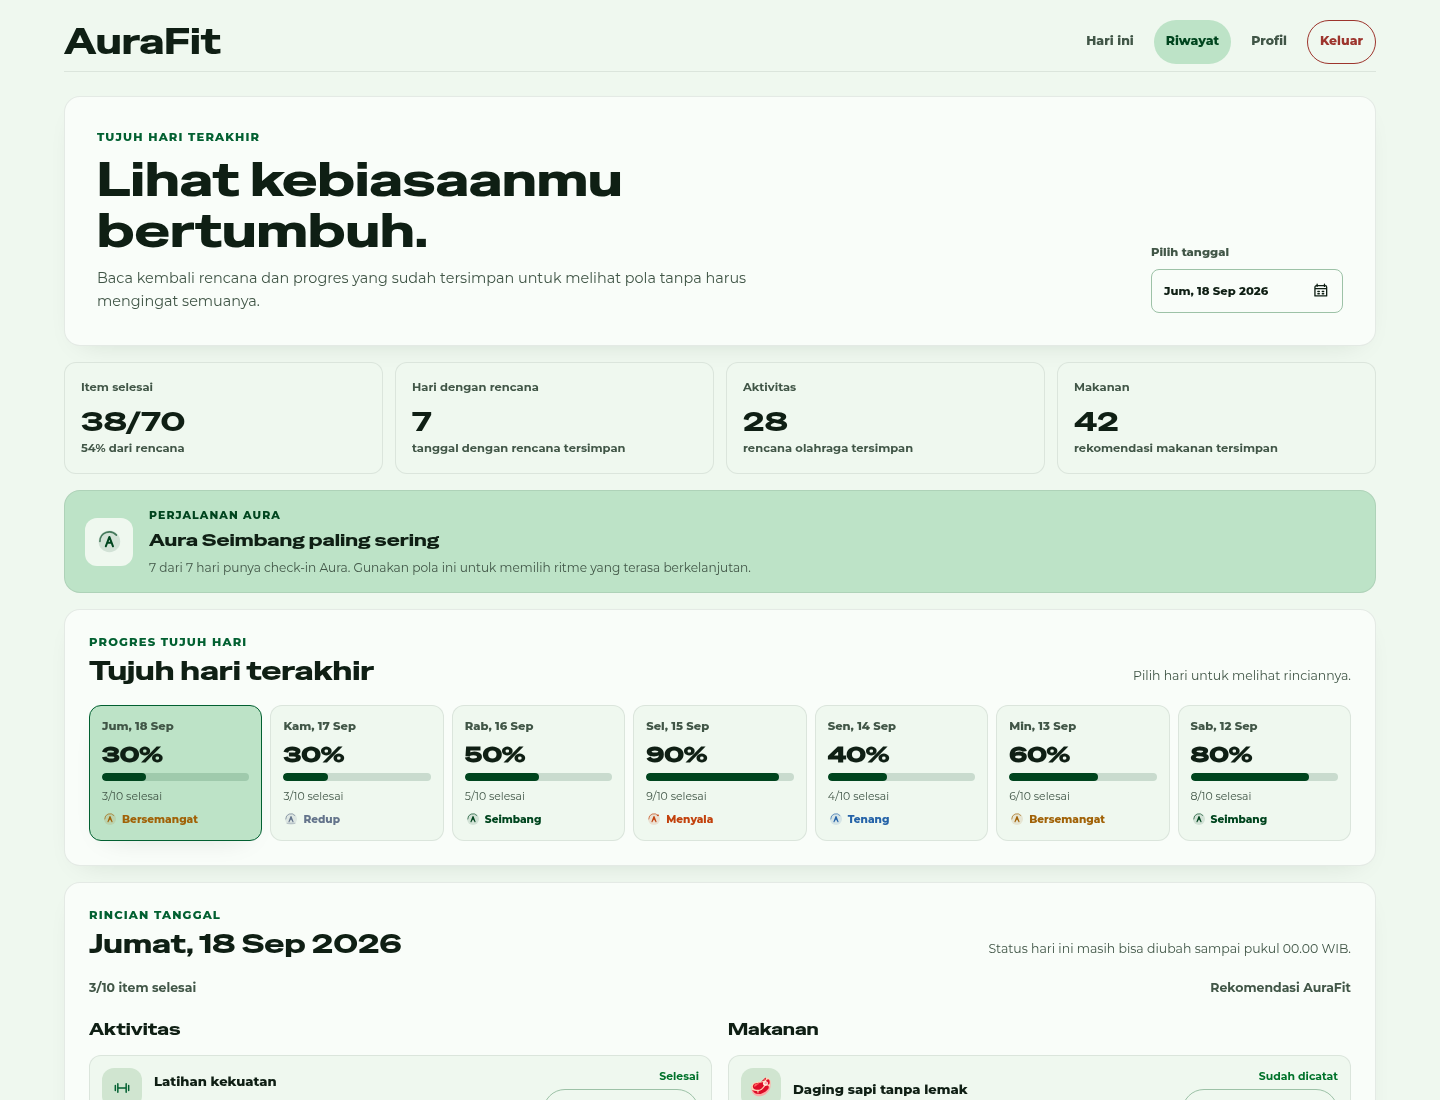
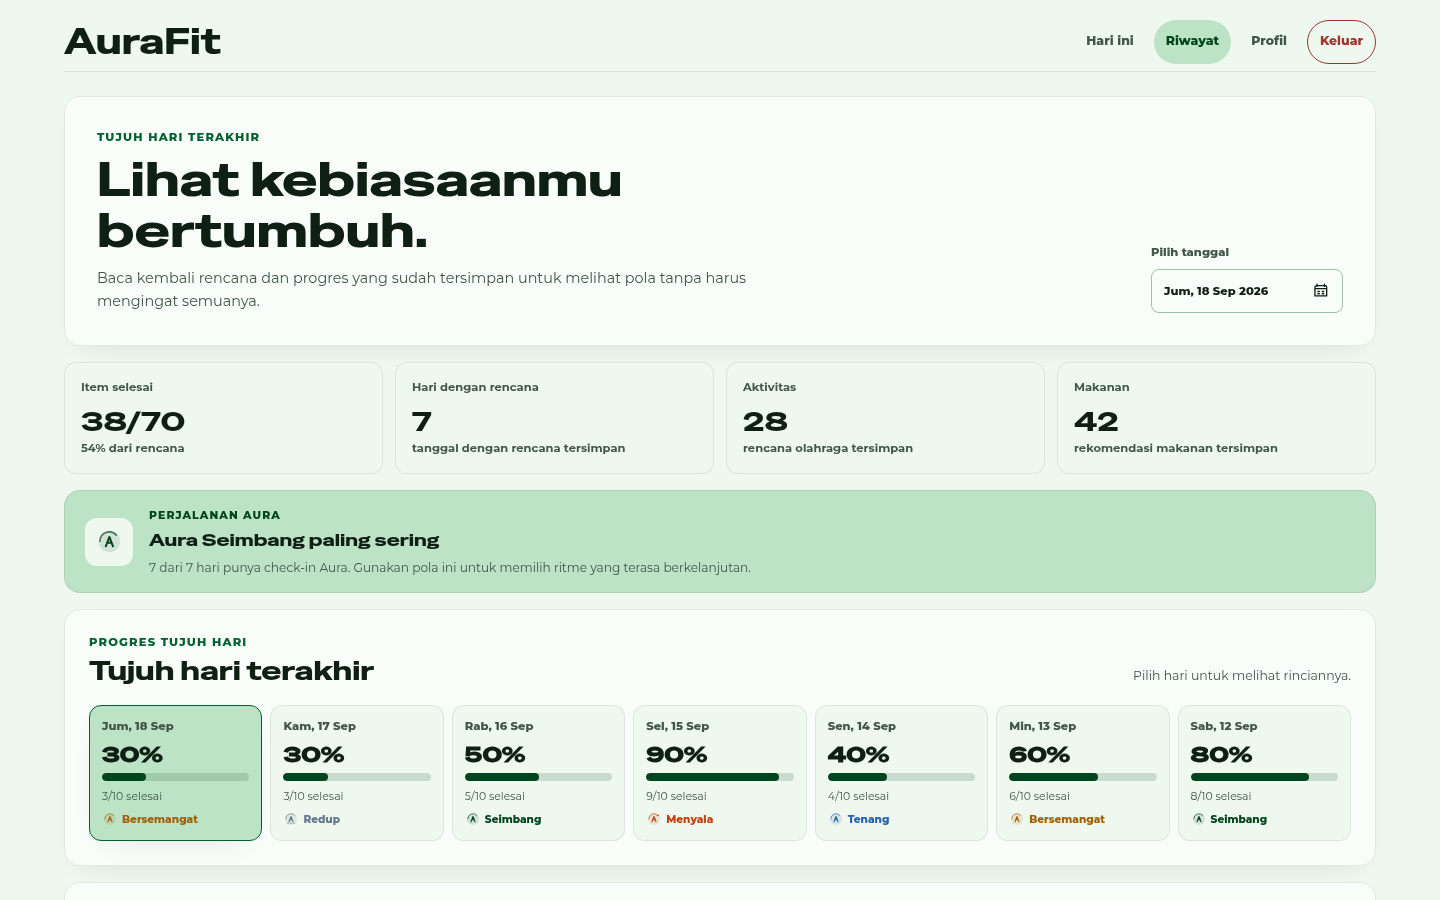
docs(readme): use uniform screenshot sizes
Desktop views are all 1440x900 in a 2x2 grid and phone views are all
390x844 in one row, replacing the mixed sizes that made the grid uneven.

diff --git a/README.md b/README.md
@@ -9,11 +9,17 @@ Antarmuka dibangun dengan React, Vite, dan Tailwind CSS, layanan aplikasi dengan
 
 ## Tampilan
 
-| Beranda | Riwayat |
-|---|---|
-| <img alt="Beranda" src=".github/screenshots/landing.png" width="480" /> | <img alt="Riwayat tujuh hari" src=".github/screenshots/history.png" width="480" /> |
-| **Profil** | **Hari ini di ponsel** |
-| <img alt="Profil" src=".github/screenshots/profile.png" width="480" /> | <img alt="Dasbor di ponsel" src=".github/screenshots/dashboard-mobile.png" width="240" /> |
+| Beranda | Hari ini |
+|:---:|:---:|
+| <img alt="Beranda" src=".github/screenshots/landing.png" width="440" /> | <img alt="Dasbor Hari ini" src=".github/screenshots/dashboard.png" width="440" /> |
+| **Riwayat** | **Profil** |
+| <img alt="Riwayat tujuh hari" src=".github/screenshots/history.png" width="440" /> | <img alt="Profil" src=".github/screenshots/profile.png" width="440" /> |
+
+**Tampilan ponsel**
+
+| Hari ini | Riwayat | Profil |
+|:---:|:---:|:---:|
+| <img alt="Hari ini di ponsel" src=".github/screenshots/mobile-dashboard.png" width="260" /> | <img alt="Riwayat di ponsel" src=".github/screenshots/mobile-history.png" width="260" /> | <img alt="Profil di ponsel" src=".github/screenshots/mobile-profile.png" width="260" /> |
 
 ## Fitur Utama
 
